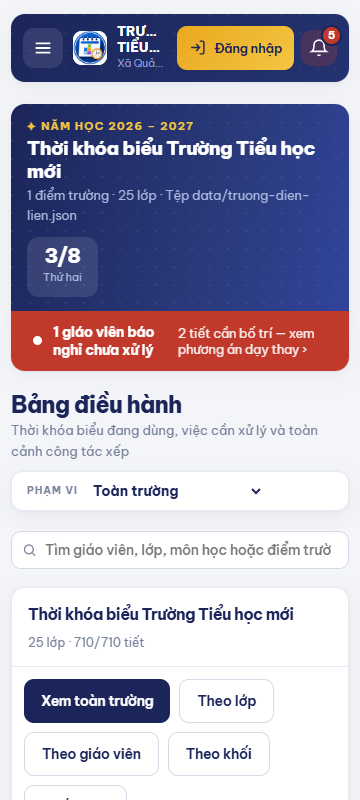
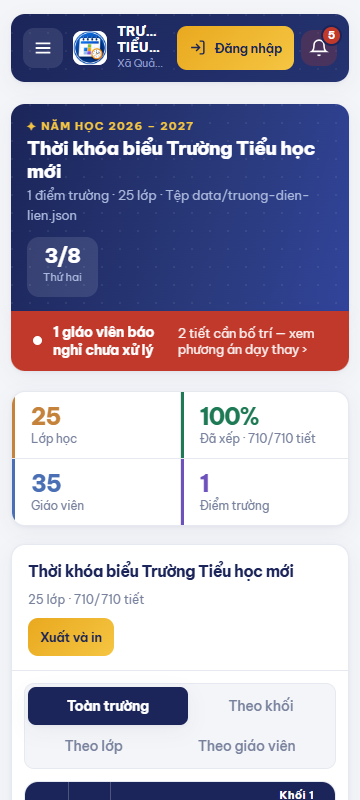
Bảng điều hành là bộ mặt sản phẩm: vào thẳng thời khóa biểu
Chủ dự án: "Tại mục ĐIỀU HÀNH, Bảng điều hành hiển thị là thông tin TKB
ngay để là bộ mặt của sản phẩm."

BỐN CÁCH XEM NAY LÀ THẺ CHUYỂN TẠI CHỖ
Trước đây chúng là nút điều hướng: bấm "Theo lớp" là rời Bảng điều hành
sang màn hình khác, và không có đường quay lại để bấm thẻ thứ hai. Nay
đổi S.dhXem rồi vẽ lại đúng khối ấy — lưới đổi, thẻ vẫn nằm đó.

Lưới trong Bảng điều hành CHỈ ĐỌC: không kéo thả, không chạm sửa. Màn
hình Theo lớp mới là chỗ chỉnh tay; hai nơi cùng sửa một thứ thì sớm
muộn lệch hành vi. Thêm luoiTuanLop() và luoiTuanGV() dùng chung khung
luoiTuanKhung(), màn hình Theo giáo viên dùng lại luôn.

BA THỨ CHUYỂN KHỎI BẢNG ĐIỀU HÀNH
· tiêu đề + phạm vi + ô tìm kiếm chung — ô tìm kiếm về mục Giáo viên,
  vì tìm giáo viên là việc của mục ấy; tiêu đề trùng với băng rôn ngay
  trên nó nên bỏ hẳn.
· cụm sáu nút thao tác nhanh — sang màn hình Xếp thời khóa biểu, nơi
  người dùng đang làm việc và cần nhảy qua lại giữa kiểm tra, xếp,
  công bố, xuất.
· bốn thẻ số liệu — gộp thành một dải liền đặt TRÊN lưới. Bốn hộp cao
  102px rời nhau chiếm gần một màn hình để nói bốn con số.

Thứ tự mới: băng rôn → dải bốn chỉ số → THỜI KHÓA BIỂU → việc cần xử lý
→ tiến độ, cảnh báo, điểm trường.

Kiểm thử: 304 thuật toán + 277 giao diện, 0 hỏng. Chrome thật: sạch.

Changed region(s): [[0.0306, 0.4688, 0.9472, 1.0]]

diff --git a/src/index.html b/src/index.html
@@ -737,6 +737,36 @@ tr.pa-tot td{background:var(--xanh-nen)}
 .chuong.gap{background:rgba(192,57,43,.24)}
 .chuong.gap:hover{background:rgba(192,57,43,.36)}
 
+/* ---------- Dải bốn chỉ số trên lưới (3/8/2026) ----------
+   Thay bốn thẻ .ts cao 102px rời nhau bằng MỘT dải liền — cùng thông tin,
+   một phần ba chiều cao, và đọc được cùng lúc với thời khóa biểu ngay dưới. */
+.dai-so{display:grid;grid-template-columns:repeat(auto-fit,minmax(150px,1fr));
+  gap:1px;background:var(--ke);border:1px solid var(--ke);border-radius:var(--r);
+  overflow:hidden;margin-bottom:18px;box-shadow:var(--bong)}
+.ds-o{background:var(--the);border:0;padding:12px 16px;text-align:left;cursor:pointer;
+  border-left:3px solid var(--dsm,#4A6FB5);transition:background .16s}
+.ds-o:hover{background:var(--nen)}
+.ds-o:active{transform:translateY(-2px)}
+.ds-o b{display:block;font-size:23px;font-weight:800;letter-spacing:-.04em;
+  line-height:1.1;color:var(--dsm,#4A6FB5)}
+.ds-o span{display:block;font-size:11.5px;color:var(--chu-mo);margin-top:2px}
+.ds-o.cam{--dsm:#C4823A}.ds-o.luc{--dsm:var(--xanh)}.ds-o.lam{--dsm:#4A6FB5}
+.ds-o.tim{--dsm:#6E52BC}.ds-o.canh{--dsm:var(--canh)}
+
+/* ---------- Thẻ chuyển cách xem, ngay trong Bảng điều hành ----------
+   Là THẺ chuyển tại chỗ, không phải nút điều hướng: bấm xong vẫn đứng đây,
+   bấm sang thẻ khác được ngay. Trước đây chúng rời trang và không có đường
+   quay lại — đúng chỗ chủ dự án phàn nàn. */
+.dai-xem{display:flex;gap:2px;background:var(--nen);border:1px solid var(--ke);
+  border-radius:var(--r2);padding:3px;margin-bottom:12px;flex-wrap:wrap}
+.xem-nut{flex:1 1 auto;min-width:110px;min-height:38px;padding:8px 14px;cursor:pointer;
+  background:none;border:0;border-radius:8px;font-size:13.5px;font-weight:500;
+  color:var(--chu-mo);transition:background .16s,color .16s}
+.xem-nut:hover{background:var(--the);color:var(--chu)}
+.xem-nut.on{background:var(--nav);color:#fff;font-weight:700;box-shadow:var(--bong)}
+.dh-chon{display:flex;gap:10px;align-items:center;flex-wrap:wrap}
+.dh-chon .ip{flex:1 1 200px;max-width:340px}
+
 /* ---------- Ô tìm kiếm chung (§20) ---------- */
 .tim-chung{position:relative;margin-bottom:18px}
 .tim-chung .loc-o{max-width:none}
@@ -1054,6 +1084,7 @@ let S = {
   dtLoc:'moi',          /* bộ lọc lịch đã phân công: hôm nay · mai · tuần · ngày · tất cả */
   dtLocNgay:'',         /* ngày cụ thể khi dtLoc === 'ngay' */
   coLuoi:'tc',          /* cỡ hiển thị lưới: gon · tc (tiêu chuẩn) · rong */
+  dhXem:'toantruong',   /* Bảng điều hành đang bày cách xem nào — xem kheSanPhamHTML() */
   nhomMo:{}             /* nhóm menu nào đang mở — xem dungMenu() */
 };
 /* Lưới thật của Trường TH Diễn Liên, đối chiếu từ bản kết xuất SmartScheduler
@@ -4950,25 +4981,7 @@ function mDieuHanh(){
   const vc=vieccanXuLy();
 
   const coSanPham = daXep>0 && ds.length>0;
-  const kheSanPham = !coSanPham ? '' : `
-  <div class="the the-rong the-luoi" style="margin-bottom:18px">
-    <div class="the-d"><h2>Thời khóa biểu ${esc(S.tenTruong)}</h2>
-      <span class="meta">${ds.length} lớp · ${daXep}/${tongCan} tiết${KHO.version?` · phiên bản ${KHO.version}`:''}</span></div>
-    <div class="the-t">
-      <div style="display:flex;gap:9px;flex-wrap:wrap;margin-bottom:14px">
-        <button class="b b-ch" data-di="toantruong">Xem toàn trường</button>
-        <button class="b b-vien" data-di="tkblop">Theo lớp</button>
-        <button class="b b-vien" data-di="tkbgv">Theo giáo viên</button>
-        <button class="b b-vien" data-di="tkbkhoi">Theo khối</button>
-        <button class="b b-vien" data-di="xuatin">Xuất và in</button>
-      </div>
-      ${daiDiemLuoi()}
-      <div class="${lopCoLuoi().trim()}">${luoiRongHTML(xepTheoKhoi(lopChoLuoi()),true,'46vh')}</div>
-      <div class="gy" style="margin-top:10px">Cuộn trong khung để xem hết.
-        ${KHO.banCongBo===KHO.version&&KHO.version?'Giáo viên đang xem đúng bản này.'
-          :coMayChu()&&KHO.version?'<b>Chưa công bố</b> — thầy cô chưa xem được bản này.':''}</div>
-    </div>
-  </div>`;
+  const kheSanPham = coSanPham ? kheSanPhamHTML(ds, daXep, tongCan) : '';
 
   /* ---------- Thứ tự trên màn hình (sắp lại 3/8/2026) ----------
      Chủ dự án nhận xét "giao diện rời rạc": trang là một chồng hộp trắng rời
@@ -4986,16 +4999,12 @@ function mDieuHanh(){
      gì xảy ra. Khi CÓ việc thật thì băng rôn mang dải đỏ ở ngay đầu trang,
      nên không ai bỏ sót; xem `bangRon()`. */
   return bangRon(vc, ds.length)
-  + dauTrang('Bảng điều hành',
-    coSanPham?'Thời khóa biểu đang dùng, việc cần xử lý và toàn cảnh công tác xếp'
-             :'Toàn cảnh công tác xếp thời khóa biểu',true)
-  + oTimChung()
+  + kheSoLieu(ds.length, pt, daXep, tongCan, gvTrongPV.size)
   + kheSanPham
   + kheVieccanXuLy(vc, canhBao)
-  + kheThaoTacNhanh(coSanPham)
   + (coSanPham?'':thanhBuoc(0))+`
   <div class="dh">
-  <div class="the-so">
+  <div class="the-so" hidden>
     <div class="ts cam" data-di="lop"><div class="ts-ic"><svg viewBox="0 0 24 24" fill="none" stroke="currentColor"><rect x="3" y="4" width="18" height="17" rx="2.5"/><path d="M3 9h18M8 4V2M16 4V2"/></svg></div>
       <div class="ts-so">${ds.length}</div><div class="ts-n">Lớp học</div></div>
     <div class="ts luc" data-di="xep"><div class="ts-ic"><svg viewBox="0 0 24 24" fill="none" stroke="currentColor"><path d="M20 6L9 17l-5-5"/></svg></div>
@@ -5052,6 +5061,155 @@ function mDieuHanh(){
     }).join('')}</div></div>
   </div>
   </div>
+  </div>`;
+}
+
+/* ==================================================================
+   3.1a LƯỚI TUẦN CHỈ ĐỌC — dùng chung cho Bảng điều hành
+   ------------------------------------------------------------------
+   Bảng điều hành nay bày được cả bốn cách xem thời khóa biểu ngay tại chỗ
+   (xem `kheSanPham`). Hai cách "theo lớp" và "theo giáo viên" cần lưới tuần
+   ngang — cột là thứ, dòng là tiết.
+
+   CHỈ ĐỌC, không kéo thả: màn hình Theo lớp mới là chỗ chỉnh tay, và nhét
+   kéo thả vào Bảng điều hành thì hai nơi cùng sửa một thứ, sớm muộn lệch
+   hành vi. Ở đây chỉ để NHÌN.
+   ================================================================== */
+function luoiTuanKhung(oNoi){
+  const bb=buoiBat();
+  const maxS=Math.max(...bb.filter(k=>k.buoi==='S').map(k=>k.tiet),0);
+  const maxC=Math.max(...bb.filter(k=>k.buoi==='C').map(k=>k.tiet),0);
+  let bang=`<div class="luoi-boc"><table class="tkb"><thead><tr>
+    <th class="gt">Buổi</th><th style="width:52px">Tiết</th>
+    ${THU.map(t=>`<th>${TEN_THU[t]}</th>`).join('')}</tr></thead><tbody>`;
+  [['S','Sáng',maxS],['C','Chiều',maxC]].forEach(([b,ten,mx])=>{
+    for(let i=0;i<mx;i++) bang+=`<tr>${i===0?`<td class="c-thu" rowspan="${mx}">${ten}</td>`:''}
+      <td class="c-tiet">${i+1}</td>${THU.map(t=>`<td>${oNoi(t,b,i)}</td>`).join('')}</tr>`;
+  });
+  return bang+'</tbody></table></div>';
+}
+
+/* Lưới tuần của MỘT GIÁO VIÊN. Màn hình Theo giáo viên dùng chung hàm này. */
+function luoiTuanGV(id){
+  const bb=buoiBat(), lich={};
+  Object.entries(S.tkb).forEach(([lp,o])=>Object.entries(o).forEach(([k,v])=>{
+    if(v.gvId===id) lich[k]={lp, mon:v.mon}; }));
+  return luoiTuanKhung((t,b,i)=>{
+    const k=bb.find(x=>x.thu===t&&x.buoi===b);
+    if(!k||i>=k.tiet) return '<div class="o-nghi"></div>';
+    const v=lich[`${t}-${b}-${i}`];
+    if(!v) return '<div class="o-trong"></div>';
+    return `<div class="o-tiet ${mLop(v.mon)}"><div class="o-mon">${esc(v.mon)}</div>
+      <div class="o-gv">Lớp ${esc(lopId(v.lp)?.ten)} · ${esc(tenDT(S.lopDT[v.lp]))}</div></div>`;
+  });
+}
+
+/* Lưới tuần của MỘT LỚP, bản chỉ đọc. */
+function luoiTuanLop(id){
+  const bb=buoiBat(), o=S.tkb[id]||{}, khoi=lopId(id)?.khoi;
+  return luoiTuanKhung((t,b,i)=>{
+    const k=bb.find(x=>x.thu===t&&x.buoi===b);
+    if(!k||i>=soTietBuoi(k,khoi)) return '<div class="o-nghi"></div>';
+    const v=o[`${t}-${b}-${i}`];
+    if(!v) return '<div class="o-trong"></div>';
+    const g=gvId(v.gvId);
+    return `<div class="o-tiet ${mLop(v.mon)}" style="cursor:default">
+      <div class="o-mon">${esc(v.mon)}</div>
+      <div class="o-gv">${esc(tenTat(g?.hoTen||''))}</div></div>`;
+  });
+}
+
+/* ---------- Dải bốn chỉ số, đặt NGAY TRÊN lưới ----------
+   Trước 3/8/2026 bốn thẻ này nằm tận dưới đáy, sau cả lưới, và mỗi thẻ là
+   một hộp trắng cao 102px — bốn hộp rời chiếm gần một màn hình để nói bốn
+   con số. Nay gộp thành MỘT dải liền, cao bằng một phần ba, đặt ngay trên
+   thời khóa biểu để đọc được cùng lúc với lưới. Bấm được, đi thẳng tới màn
+   hình tương ứng. */
+function kheSoLieu(soLop, pt, daXep, tongCan, soGV){
+  const o=[
+    ['lop',      soLop,    'Lớp học',      'cam'],
+    ['xep',      pt+'%',   `Đã xếp · ${daXep}/${tongCan} tiết`, pt>=100?'luc':'canh'],
+    ['giaovien', soGV,     'Giáo viên',    'lam'],
+    ['diemtruong', dtTrongPV().length, 'Điểm trường', 'tim'],
+  ];
+  return `<div class="dai-so">${o.map(([di,v,t,m])=>
+    `<button class="ds-o ${m}" data-di="${di}"><b>${v}</b><span>${t}</span></button>`).join('')}</div>`;
+}
+
+/* ---------- Khối SẢN PHẨM: bốn cách xem, chuyển TẠI CHỖ ----------
+   Trước 3/8/2026 bốn nút này là nút ĐIỀU HƯỚNG (`data-di`): bấm "Theo lớp"
+   là rời Bảng điều hành sang màn hình khác, và không có đường quay lại để
+   bấm nút thứ hai. Chủ dự án nói đúng: "bấm nút nào thì hiển thị thời khóa
+   biểu nút đó và không biến mất, muốn quay lại bấm nút khác không có".
+
+   Nay chúng là THẺ CHUYỂN: đổi `S.dhXem` rồi vẽ lại đúng khối này, lưới bên
+   dưới đổi theo, thẻ đang chọn vẫn nằm đó để bấm sang thẻ khác. Bảng điều
+   hành trở thành chỗ xem thời khóa biểu thật sự, đúng nghĩa bộ mặt sản phẩm.
+
+   Bốn màn hình riêng vẫn còn nguyên — đó mới là chỗ chỉnh tay, xuất, in.
+   Ở đây CHỈ ĐỌC. */
+const THE_XEM = [['toantruong','Toàn trường'],['tkbkhoi','Theo khối'],
+                 ['tkblop','Theo lớp'],['tkbgv','Theo giáo viên']];
+
+function kheSanPhamHTML(ds, daXep, tongCan){
+  if(!THE_XEM.some(x=>x[0]===S.dhXem)) S.dhXem='toantruong';
+  const xem=S.dhXem;
+
+  /* Dải chọn phụ + lưới, tuỳ thẻ đang mở */
+  let dai='', luoi='', meta='';
+  if(xem==='toantruong'){
+    dai=daiDiemLuoi();
+    luoi=luoiRongHTML(xepTheoKhoi(lopChoLuoi()),true,'52vh');
+    meta=`${ds.length} lớp · ${daXep}/${tongCan} tiết`;
+  }else if(xem==='tkbkhoi'){
+    const khoi=khoiDangCo(ds);
+    if(!khoi.includes(S.khoiXem)) S.khoiXem=khoi[0];
+    const lop=ds.filter(l=>khoiCuaLop(l)===S.khoiXem);
+    dai=`<div class="dai-dt">${khoi.map(k=>`<button class="dt-nut${k===S.khoiXem?' on':''}"
+      data-dhkhoi="${k}">Khối ${k}<span>${ds.filter(l=>khoiCuaLop(l)===k).length}</span></button>`).join('')}</div>`;
+    luoi=luoiRongHTML(xepTheoKhoi(lop),false,'52vh');
+    meta=`Khối ${S.khoiXem} · ${lop.length} lớp`;
+  }else if(xem==='tkblop'){
+    if(!ds.some(l=>l.id===S.lopXem)) S.lopXem=ds[0]?.id;
+    const l=lopId(S.lopXem);
+    dai=`<div class="dh-chon">
+      ${oLocChon('dhLop',ds.length,'lớp','Tìm lớp…')}
+      <select class="ip" id="dhLop">${xepTheoKhoi(ds).map(x=>`<option value="${x.id}"
+        ${x.id===S.lopXem?'selected':''} data-loctu="${tuLoc(x.ten,x.maLop,tenDT(S.lopDT[x.id]))}"
+        >${esc(tenLopDay(x.id))}</option>`).join('')}</select>
+      <button class="b b-vien b-nho" data-di="tkblop">Mở để chỉnh tay ›</button></div>`;
+    luoi=S.lopXem?luoiTuanLop(S.lopXem):'';
+    meta=l?`${esc(tenLopDay(l.id))} · ${Object.keys(S.tkb[l.id]||{}).length} tiết/tuần`:'';
+  }else{
+    const cds=[...gvTrongPV()].sort((a,b)=>a.hoTen.localeCompare(b.hoTen,'vi'));
+    if(!cds.some(x=>x.id===S.gvXem)) S.gvXem=cds[0]?.id;
+    const g=gvId(S.gvXem);
+    const so=Object.values(S.tkb).reduce((s,o)=>
+      s+Object.values(o).filter(v=>v.gvId===S.gvXem).length,0);
+    dai=`<div class="dh-chon">
+      ${oLocChon('dhGV',cds.length,'giáo viên','Tìm giáo viên…')}
+      <select class="ip" id="dhGV">${cds.map(x=>`<option value="${x.id}"
+        ${x.id===S.gvXem?'selected':''} data-loctu="${tuLoc(x.hoTen,x.maGV,tenCN(x))}"
+        >${esc(x.hoTen)}</option>`).join('')}</select>
+      <button class="b b-vien b-nho" data-di="tkbgv">Mở đầy đủ ›</button></div>`;
+    luoi=S.gvXem?luoiTuanGV(S.gvXem):'';
+    meta=g?`${esc(g.hoTen)} · ${so} tiết/tuần`:'';
+  }
+
+  return `<div class="the the-rong the-luoi" style="margin-bottom:18px">
+    <div class="the-d"><h2>Thời khóa biểu ${esc(S.tenTruong)}</h2>
+      <span class="meta">${meta}${KHO.version?` · phiên bản ${KHO.version}`:''}</span>
+      <button class="b b-vang b-nho" data-di="xuatin">Xuất và in</button></div>
+    <div class="the-t">
+      <div class="dai-xem">${THE_XEM.map(([v,t])=>
+        `<button class="xem-nut${v===xem?' on':''}" data-dhxem="${v}">${t}</button>`).join('')}</div>
+      ${dai}
+      <div class="${lopCoLuoi().trim()}" style="margin-top:12px">${luoi}</div>
+      <div class="gy" style="margin-top:10px">${
+        KHO.banCongBo===KHO.version&&KHO.version?'Giáo viên đang xem đúng bản này.'
+        :coMayChu()&&KHO.version?'<b>Chưa công bố</b> — thầy cô chưa xem được bản này.'
+        :'Cuộn trong khung để xem hết.'}</div>
+    </div>
   </div>`;
 }
 
@@ -5133,7 +5291,12 @@ function kheVieccanXuLy(vc, canhBao){
   </div>`;
 }
 
-/* ---------- Sáu nút thao tác nhanh (§4) ----------
+/* ---------- Sáu nút thao tác nhanh ----------
+   Chuyển khỏi Bảng điều hành 3/8/2026 sang màn hình XẾP THỜI KHÓA BIỂU.
+   Lý do: Bảng điều hành phải là chỗ NHÌN thời khóa biểu, không phải bảng
+   nút bấm; còn màn hình Xếp mới là nơi người dùng đang làm việc và cần
+   nhảy qua lại giữa kiểm tra · xếp · công bố · xuất.
+
    Đúng MỘT nút chính nổi bật, năm nút còn lại là nút viền — §5 nói rõ:
    không để quá nhiều nút cùng màu và cùng mức độ ưu tiên. Nút chính là
    nút của việc TIẾP THEO phải làm, nên nó đổi theo trạng thái. */
@@ -5165,7 +5328,8 @@ function mXep(){
   const loi=KT.vm.filter(v=>v.muc==='do');
   /* Ghi lên máy chủ chỉ có nghĩa khi lưới dựng trên chính dữ liệu của máy chủ */
   const luuDuoc=coMayChu() && KHO.nguon==='may-chu';
-  return dauTrang('Xếp thời khóa biểu','Máy xếp trước, cán bộ chỉnh sau. Nguyên tắc: một giáo viên chỉ ở một điểm trường trong một buổi.',false)+dieuHuongBuoc('xep')+`
+  return dauTrang('Xếp thời khóa biểu','Máy xếp trước, cán bộ chỉnh sau. Nguyên tắc: một giáo viên chỉ ở một điểm trường trong một buổi.',false)
+  +dieuHuongBuoc('xep')+kheThaoTacNhanh(soTietDaXep()>0)+`
   <div class="dh"><div class="dh-duoi">
     <div class="the">
       <div class="the-d"><h2>Xếp tự động</h2></div>
@@ -7957,7 +8121,11 @@ function mGiaoVien(){
     Tài khoản đăng nhập</button>
     ${S.giaoVien.some(g=>g.nguoiDungId)?`<button class="b b-vien" id="btChuyenTK">Chuyển tài khoản</button>`:''}
     ${S.giaoVien.length?`<button class="b b-vien" id="btDatLaiMaGV">Đặt lại mã giáo viên</button>`:''}`):'')+`
-  ${oLoc('bGV',ds.length,'giáo viên','Tìm họ tên, mã, lớp chủ nhiệm, điểm trường…')}
+  ${/* Ô tìm kiếm chung chuyển từ Bảng điều hành về đây 3/8/2026 — tìm giáo
+       viên là việc của mục Giáo viên. Nó khác `oLoc` ở chỗ không lọc bảng mà
+       trả kết quả bấm được, nhảy thẳng tới lịch dạy của người ấy. */''}
+  ${oTimChung()}
+  ${oLoc('bGV',ds.length,'giáo viên','Lọc nhanh trong bảng dưới…')}
   <div class="bang" style="max-height:66vh"><table class="dl" id="bGV"><thead><tr><th>Họ và tên</th>
     <th class="phai">Định mức</th><th>Chủ nhiệm</th><th>Điểm trường</th>
     <th class="phai">Lớp</th><th class="phai">Tiết/tuần</th><th class="phai">Buổi cần</th><th>Tình trạng</th>
@@ -8328,6 +8496,11 @@ function noiSuKien(){
   if(S.trangHienTai==='nhatky' && coMayChu()) veNhatKy();
 
   /* ---------- Cỡ hiển thị lưới và toàn màn hình (§7) ---------- */
+  /* Thẻ chuyển cách xem trên Bảng điều hành — đổi lưới TẠI CHỖ, không rời trang */
+  $$('[data-dhxem]').forEach(b=>b.onclick=()=>{ S.dhXem=b.dataset.dhxem; ve(); });
+  $$('[data-dhkhoi]').forEach(b=>b.onclick=()=>{ S.khoiXem=+b.dataset.dhkhoi; ve(); });
+  $('#dhLop')&&($('#dhLop').onchange=e=>{ S.lopXem=e.target.value; ve(); });
+  $('#dhGV') &&($('#dhGV').onchange =e=>{ S.gvXem =e.target.value; ve(); });
   $$('[data-coluoi]').forEach(b=>b.onclick=()=>{ S.coLuoi=b.dataset.coluoi; ve(); });
   $$('[data-toanmh]').forEach(b=>b.onclick=()=>batToanManHinh(true));
 

diff --git a/CLAUDE.md b/CLAUDE.md
@@ -499,11 +499,30 @@ nhau, mà **băng rôn mang tên trường** — thứ neo cả trang — lại 
 
 ```
 1. băng rôn navy    tên trường · quy mô · nguồn · phiên bản · ngày hôm nay
-2. tiêu đề + phạm vi + ô tìm kiếm
-3. THỜI KHÓA BIỂU   sản phẩm — thứ người dùng mở phần mềm để xem
-4. việc cần xử lý + thao tác nhanh
-5. số liệu · tiến độ · cảnh báo · điểm trường
+2. dải bốn chỉ số   lớp · % đã xếp · giáo viên · điểm trường
+3. THỜI KHÓA BIỂU   bốn thẻ chuyển cách xem + lưới
+4. việc cần xử lý
+5. tiến độ · cảnh báo · điểm trường
 ```
+
+**Bốn cách xem là THẺ CHUYỂN TẠI CHỖ, không phải nút rời trang** *(3/8/2026)*.
+Trước đó chúng là `data-di`: bấm *Theo lớp* là rời Bảng điều hành, và **không
+có đường quay lại để bấm thẻ thứ hai**. Chủ dự án nói đúng: *"bấm nút nào thì
+hiển thị thời khóa biểu nút đó và không biến mất, muốn quay lại bấm nút khác
+không có"*. Nay đổi `S.dhXem` rồi vẽ lại đúng khối ấy — xem `kheSanPhamHTML()`.
+
+Lưới trong Bảng điều hành **CHỈ ĐỌC**: không kéo thả, không chạm sửa. Màn hình
+*Theo lớp* mới là chỗ chỉnh tay; hai nơi cùng sửa một thứ thì sớm muộn lệch
+hành vi. Hai hàm dựng lưới tuần dùng chung: `luoiTuanLop(id)` · `luoiTuanGV(id)`,
+cùng khung `luoiTuanKhung(oNoi)`.
+
+**Ba thứ đã chuyển khỏi Bảng điều hành:**
+
+| Cái gì | Đi đâu | Vì sao |
+|---|---|---|
+| Tiêu đề + phạm vi + ô tìm kiếm chung | ô tìm kiếm → mục **Giáo viên** | tìm giáo viên là việc của mục Giáo viên; tiêu đề trùng với băng rôn ngay trên nó |
+| Cụm sáu nút thao tác nhanh | màn hình **Xếp thời khóa biểu** | Bảng điều hành là chỗ NHÌN thời khóa biểu, không phải bảng nút bấm |
+| Bốn thẻ số liệu `.ts` | thành dải `.dai-so` **trên** lưới | bốn hộp cao 102px rời nhau chiếm gần một màn hình để nói bốn con số |
 
 **Việc cần xử lý lùi xuống SAU lưới.** Ngày 2/8 nó được đặt lên đầu vì "thứ
 duy nhất có hạn giờ trong ngày". Đúng — nhưng phần lớn thời gian nó là một
